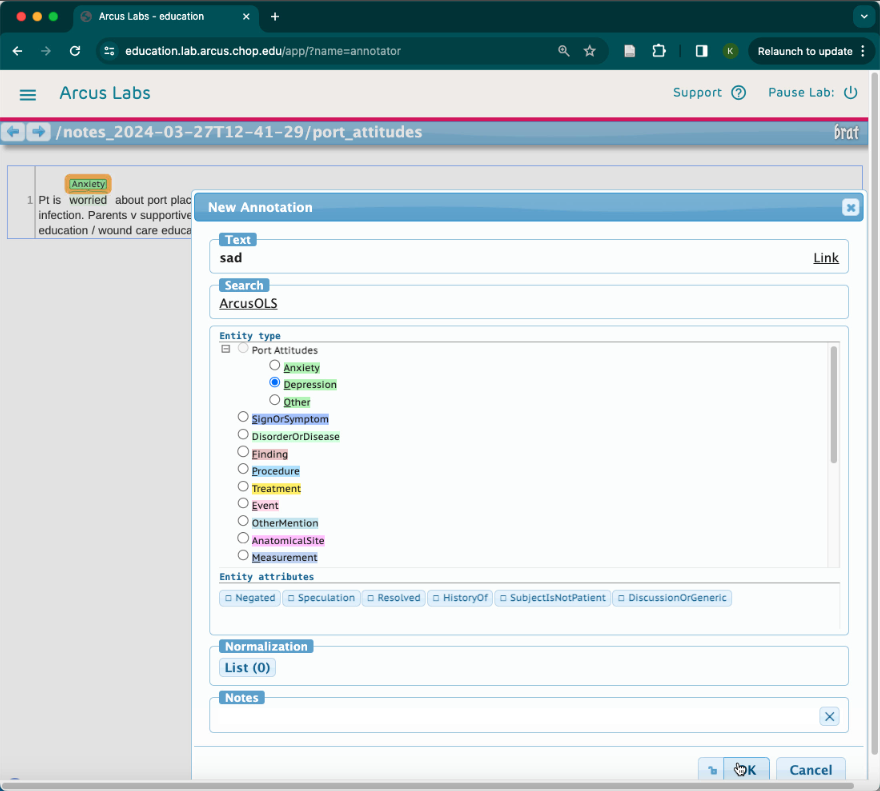
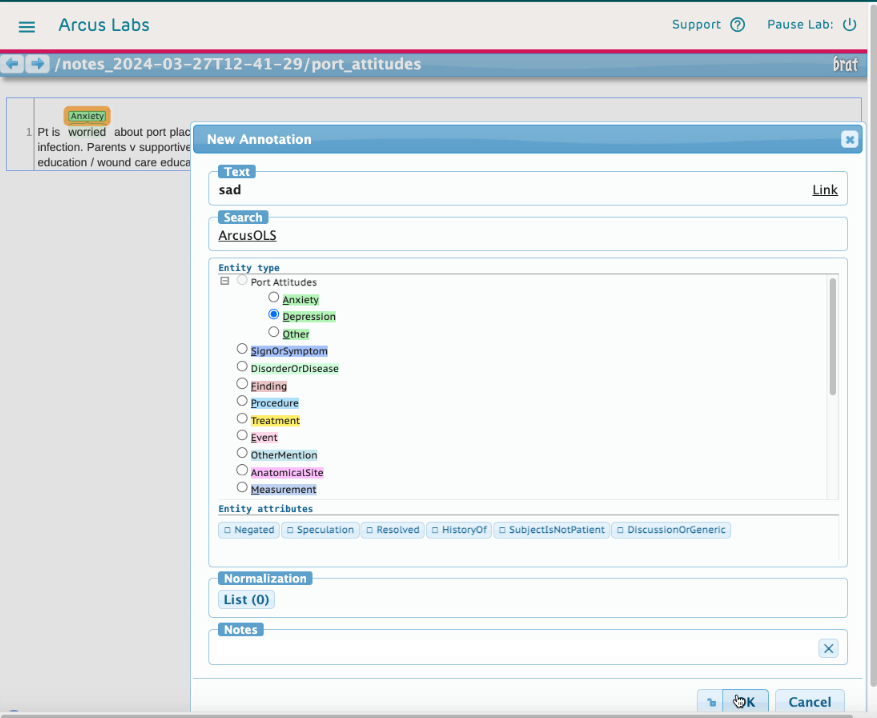
update brat info

diff --git a/arcus_orientation.md b/arcus_orientation.md
@@ -139,11 +139,26 @@ Arcus labs are per-project. Each Arcus Lab is associated with a specific Arcus S
 
 ### Included Tools
 
+Statistical Analysis Software
+------
+
 Currently, Arcus Computational Labs are populated with open source statistical and data analytics software.  These software (JupyterLab with lanugage kernels such as Python and RStudio using R) allow for scripted data ingestion, cleaning, preparation, analysis, and visualization. 
 
 Licensed point and click commercial software such as Excel, SAS, and SPSS **are not supported**.  The paid, commercial license for a Stata language kernel for Jupyter (not the Stata point-and-click desktop application) can be requested if necessary for the project.
 
 Why is this tool suite what we provide in Arcus?  We want to position researchers to work in reproducible ways that set them up for career success and publication opportunities.  Increasingly, top tier journals demand scripted (not point-and-click) data analysis, and we believe this trend will continue and become industry standard.  We also believe that scripted analysis is the most reproducible way to conduct science and is best practice for the conduct of research.
+
+
+Text Tools
+-----
+
+We also have a text annotator, brat, which is useful for reading text files like clinical notes, as well as for adding any annotations.
+
+![Clicking on a word allows you to add an annotation like 'anxiety' or 'depression'.](media/annotation_example.png)<!-- style = "border: 1px solid rgb(var(--color-highlight)); max-width: 500px;"-->
+
+
+Learning to use the tools
+------
 
 It can be a big change to start to use scripted analysis instead of using point-and-click software! It requires time, effort, and lots of trial and error.  Arcus Education has many educational resources that may interest you. For more information, [put in a help ticket](https://support.arcus.chop.edu/servicedesk/customer/portal/6/create/248?q=education&q_time=1676498496556), visit [Education Office Hours](https://outlook.office365.com/owa/calendar/BKG-StandardArcusEducationOfficeHours@chop.edu/bookings/) or email [`arcus-support@chop.edu`](mailto:arcus-support@chop.edu).  We'd also suggest you check out the "New to" documents, which are good for every researcher to learn about:
 
@@ -159,6 +174,7 @@ It can be a big change to start to use scripted analysis instead of using point-
 We estimate that completing the learning in the above "New to" modules as well as this module will require around 30-40 hours, depending on how deeply you engage with the materials. We suggest that you spread out your learning over several weeks to allow for practicing the skills you're learning in your Arcus lab.
 
 If you don't have time to learn SQL, R, and Python, consider having your junior staff train in these skills.  When RAs and study coordinators apply to graduate school, they're now being asked about their ability to write code.  Therefore, giving junior staff an opportunity to learn scripted analysis can help you have an affordable asset in your team who can do the work and will also set them up for greater career success.
+
 
 ### Included Data
 

diff --git a/new_to_text.md b/new_to_text.md
@@ -252,7 +252,7 @@ Once you have a note open, you can select a single word by double-clicking it, o
 
 <figure>
 
-  <img src="https://github.com/arcus/Arcus_Labs_Orientation/blob/main/media/annotation_example.png?raw=true" height="880" width="791" alt="Clicking on a word allows you to add an annotation like 'anxiety' or 'depression'." data-alt="https://github.com/arcus/Arcus_Labs_Orientation/blob/main/media/annotation_example.gif?raw=true" style = "border: 1px solid rgb(var(--color-highlight));">
+  <img src="https://github.com/arcus/Arcus_Labs_Orientation/blob/main/media/annotation_example.png?raw=true" height="657" width="538" alt="Clicking on a word allows you to add an annotation like 'anxiety' or 'depression'." data-alt="https://github.com/arcus/Arcus_Labs_Orientation/blob/main/media/annotation_example.gif?raw=true" style = "border: 1px solid rgb(var(--color-highlight));">
 
 <figcaption style = "font-size: 1em;">
 
@@ -264,3 +264,8 @@ Click on the image to play the demo of running the chunk that imports data.
 
 The annotations that are possible to add can be widely varied.  Maybe you want to apply a very rich and multi-faceted ontology that already exists and is well defined, and you want to be able to link a word or a phrase with one or several terms in that ontology.  Or maybe you're defining your own group of terms, as we have here: Anxiety, Depression, Other.
 
+## Using Large Language Models
+
+Have you been captivated by the possibilities of using large language models to generate text, such as composing an overview of a patient's medical history, translating clinical records from another language into English, summarizing a journal article, or helping draft emails?  You're not alone!
+
+You can learn more about LLMs like ChatGPT in our [Demystifying Large Language Models](https://liascript.github.io/course/?https://raw.githubusercontent.com/arcus/education_modules/main/demystifying_large_language_models/demystifying_large_language_models.md#1) module!
